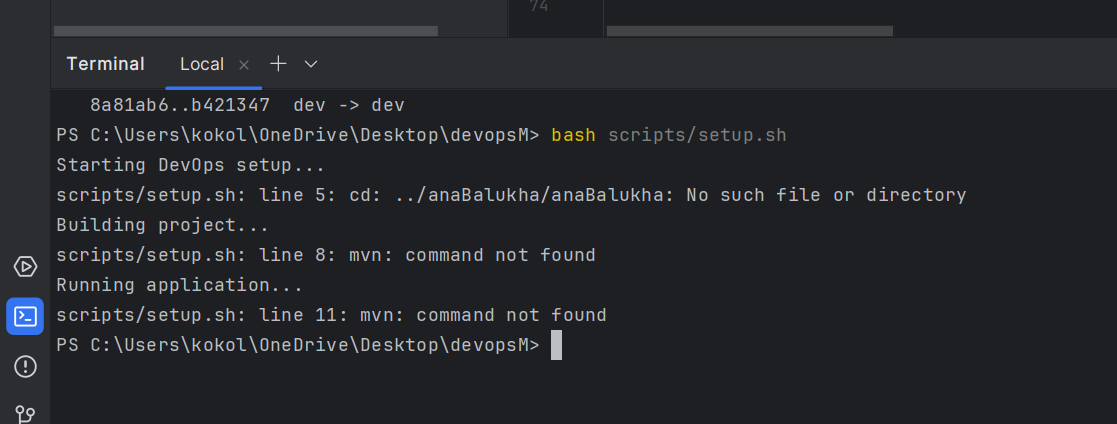
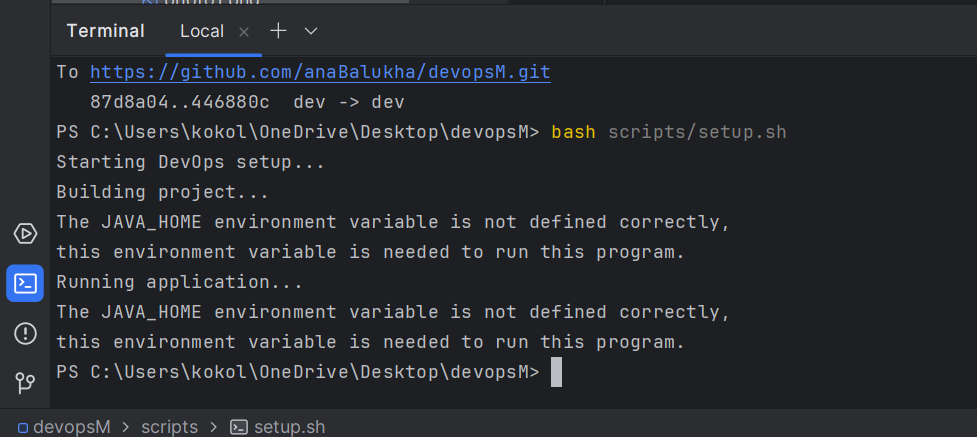
trigger CI pipeline test

diff --git a/README.md b/README.md
@@ -1,103 +1,63 @@
-## DevOps Spring Boot Project — CI/CD + IaC + Monitoring:
-# Project Overview: 
+# DevOps Practices Applied in a Spring Boot Web Application Project Overview:
 
-This project is a Spring Boot REST API application that I developed as part of a DevOps assignment. The main goal of this project was to demonstrate how different DevOps practices can be applied in a real software project including version control, continuous integration, infrastructure automation, deployment simulation, and monitoring.
-
-The application is built using Java and Spring Boot and follows a layered architecture. I structured the project in a way where each layer has a clear responsibility, for example controllers handle HTTP requests, services contain business logic, repositories handle database communication, and DTOs are used to transfer data between layers.
-
-During development, I used Git for version control and created two main branches called main and dev. The main branch contains stable and tested code, while the dev branch was used for active development and testing new features before merging.
-
-A continuous integration pipeline was implemented using GitHub Actions. This pipeline automatically builds the project every time I push changes to the repository or create a pull request. The purpose of this is to ensure that the application always builds correctly and to detect errors early.
-
-In addition, I created automation scripts using Bash to demonstrate Infrastructure as Code (IaC). These scripts help prepare the environment and simulate deployment processes using simple commands.
-
-The project also includes a basic monitoring system using a health check script. This script continuously checks whether the application is running and logs the results into a file for analysis.
-
-Finally, Swagger was integrated into the project to provide API documentation and allow easy testing of all endpoints through a web interface.
-
+In this project, I developed a Spring Boot backend application and gradually extended it by applying different 
+DevOps practices such as version control, continuous integration, automation scripts, deployment simulation, 
+and basic monitoring. The main focus of the project was not only to build a working web application but also to 
+demonstrate how modern software development workflows can be organized using DevOps principles in a structured and 
+repeatable way. The application itself is built using Java and Spring Boot framework. I followed a layered architecture 
+approach where each part of the system has a clear responsibility. The controller layer is responsible for handling 
+HTTP requests, the service layer contains the core business logic of the application, and the repository layer is 
+responsible for interacting with the database. This structure helps to keep the project clean, organized, and 
+easier to maintain.
+During development, I also used Git as a version control system and maintained two separate branches: main and dev. 
+The main branch represents the stable version of the application, while the dev branch was used for active development 
+and testing new changes before merging them into the main branch.
 
 # Technologies Used:
-
-The project was developed using Java 17 and Spring Boot framework. Spring Data JPA with Hibernate was used for database management, and H2 in-memory database was used for simplicity. Maven was used as the build tool for dependency management.
-
-Git and GitHub were used for version control, while GitHub Actions was used for continuous integration. Bash scripting was used for automation and infrastructure setup. Swagger UI was used for API documentation and testing.
+In this project, I used the following technologies and tools: Java 17 as the programming language, Spring Boot 
+as the backend framework, Spring Data JPA for database communication, H2 in-memory database for testing and simplicity,
+Maven for project build and dependency management, Git and GitHub for version control, GitHub Actions for continuous 
+integration, Bash scripting for automation and deployment simulation and Swagger UI for API documentation and testing.
+Each of these tools was chosen to demonstrate a different part of the software development lifecycle and 
+DevOps workflow.
 
 # Project Structure:
 
-The project follows a layered architecture. The controller layer is responsible for handling HTTP requests. The service layer contains the business logic. The repository layer handles database operations. The entity layer defines database models. DTOs are used to transfer data between client and server without exposing internal entities.
+The project follows a layered architecture design:
+   1. Controller Layer: Handles incoming HTTP requests and maps them to service methods. 
+   2. Service Layer: Contains the business logic and processes data.
+   3. Repository Layer: Communicates with the database and performs CRUD operations.
+   4. Entity Layer: Represents database tables as Java objects.
+   5. DTO Layer: Transfers data between client and server without exposing internal structure.
+so that it separates responsibilities and ensures that the application remains scalable and easy to maintain.
 
-This structure helps to keep the project clean, maintainable, and scalable.
+# How to Run the Project Locally
 
-# How to Run the Project Locally:
+the repository must first be cloned from GitHub: git clone https://github.com/anaBalukha/devopsM.git
+                                                 cd devopsM
 
-To run this project locally, the repository must first be cloned from GitHub.
+After cloning the repository, I open the project in IntelliJ IDEA and make sure Maven dependencies are loaded correctly.
+as I mentioned before the project contains two Git branches:
+             main branch → stable version of the application
+             dev branch → development version
 
-git clone https://github.com/anaBalukha/devopsM.git
-cd devopsM
+To switch to the development branch,use: git checkout dev
+To run the application, execute: mvn spring-boot:run
 
-After cloning the repository, I open the project in IntelliJ IDEA.
+After running the application successfully, it becomes available at: http://localhost:8080
 
-The project uses two Git branches. The main branch contains stable code, while the dev branch is used for development. To switch to the dev branch, I use:
-
-git checkout dev
-
-Then I run the Spring Boot application using Maven:
-
-mvn spring-boot:run
-
-After starting the application, it runs on:
-
-http://localhost:8080
-
-Swagger documentation is available at:
-
-http://localhost:8080/swagger-ui/index.html
-
+Swagger API documentation can be accessed at: http://localhost:8080/swagger-ui/index.html
 
 # Continuous Integration (GitHub Actions)
 
-I implemented CI using GitHub Actions. The pipeline automatically runs whenever I push code to main or dev branches.
+I implemented Continuous Integration using GitHub Actions. The main purpose of CI is to automatically build and 
+test the application whenever changes are pushed to the repository. The pipeline is triggered automatically 
+on every push or pull request to the main or dev branches. This ensures that the code is always in a working state 
+and helps detect errors early during development.
+The CI pipeline performs the following steps: 
+             1. It checks out the repository code
+             2. It sets up Java environment
+             3. It builds the project using Maven
+             4. It runs all unit tests to ensure correctness
 
-The pipeline builds the project using Maven and checks if the code compiles correctly.
-
-![CI Pipeline Success](images/photo1.png)
-
-# Infrastructure as Code (IaC)
-
-I created automation scripts using Bash to simulate infrastructure setup. These scripts automate environment preparation and deployment simulation.
-
-The scripts are located in the deployment folder.
-
-#### screenshottt
-
-
-# Continuous Deployment (Blue-Green Deployment)
-
-I implemented a simple Blue-Green deployment simulation using two environments: blue and green.
-
-The idea is that one environment runs the application while the other is ready for update, and switching between them simulates deployment without downtime.
-
-A rollback script is also included to restore the previous version if needed.
-
-### photooo of running blue.sh or green.sh in terminal
-
-
-# Monitoring & Health Check
-
-I created a monitoring script that continuously checks the application status.
-
-The script sends requests to the application every few seconds and logs whether the application is UP or DOWN.
-
-The results are saved in a log file for later analysis.
-
-### photo of running : bash monitoring/health-check.sh and log file output
-
-# API Testing (Swagger)
-
-Swagger UI was integrated to allow testing of all REST endpoints in a visual interface.
-
-All endpoints can be tested without using external tools like Postman.
-
-### runn the spring code and then screenshot of http://localhost:8080/swagger-ui/index.html
-
-
+![CI Pipeline Success](images/ci-success.png)
